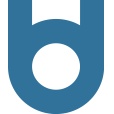
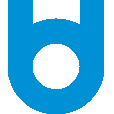
Changed Bicephale color

diff --git a/src/octoprint/static/css/bicephale.css b/src/octoprint/static/css/bicephale.css
@@ -1,5 +1,5 @@
 a:link {
-  color: #397399;
+  color: #0090d4;
 }
 
 .btn {
@@ -129,14 +129,14 @@ input[type="submit"].btn-block, input[type="reset"].btn-block, input[type="butto
 .btn-primary {
     color: #fff;
     text-shadow: 0 -1px 0 rgba(0, 0, 0, 0.25);
-    background-color: #397399;
-    background-image: -moz-linear-gradient(top, #397399, #397399);
-    background-image: -webkit-gradient(linear, 0 0, 0 100%, from(#397399), to(#397399));
-    background-image: -webkit-linear-gradient(top, #397399, #397399);
-    background-image: -o-linear-gradient(top, #397399, #397399);
-    background-image: linear-gradient(to bottom, #397399, #397399);
+    background-color: #0090d4;
+    background-image: -moz-linear-gradient(top, #0090d4, #0090d4);
+    background-image: -webkit-gradient(linear, 0 0, 0 100%, from(#0090d4), to(#0090d4));
+    background-image: -webkit-linear-gradient(top, #0090d4, #0090d4);
+    background-image: -o-linear-gradient(top, #0090d4, #0090d4);
+    background-image: linear-gradient(to bottom, #0090d4, #0090d4);
     background-repeat: repeat-x;
-    filter: progid:DXImageTransform.Microsoft.gradient(startColorstr='#ff397399', endColorstr='#ff397399', GradientType=0);
+    filter: progid:DXImageTransform.Microsoft.gradient(startColorstr='#ff0090d4', endColorstr='#ff0090d4', GradientType=0);
     border-color: #04c #04c #002a80;
     border-color: rgba(0, 0, 0, 0.1) rgba(0, 0, 0, 0.1) rgba(0, 0, 0, 0.25);
     *background-color: #04c;
@@ -144,8 +144,8 @@ input[type="submit"].btn-block, input[type="reset"].btn-block, input[type="butto
 }
 .btn-primary:hover, .btn-primary:focus, .btn-primary:active, .btn-primary.active, .btn-primary.disabled, .btn-primary[disabled] {
     color: #fff;
-    background-color: #397399;
-    *background-color: #397399;
+    background-color: #0090d4;
+    *background-color: #0090d4;
 }
 .btn-primary:active, .btn-primary.active {
     background-color: #039 \9;
@@ -357,14 +357,14 @@ button.btn.btn-mini, input[type="submit"].btn.btn-mini {
 }
 
 #navbar .navbar-inner {
-    background-color: #397399;
-    background-image: -moz-linear-gradient(top, #397399, #397399);
-    background-image: -webkit-gradient(linear, 0 0, 0 100%, from(#397399), to(#397399));
-    background-image: -webkit-linear-gradient(top, #397399, #397399);
-    background-image: -o-linear-gradient(top, #397399, #397399);
-    background-image: linear-gradient(to bottom, #397399, #397399);
+    background-color: #0090d4;
+    background-image: -moz-linear-gradient(top, #0090d4, #0090d4);
+    background-image: -webkit-gradient(linear, 0 0, 0 100%, from(#0090d4), to(#0090d4));
+    background-image: -webkit-linear-gradient(top, #0090d4, #0090d4);
+    background-image: -o-linear-gradient(top, #0090d4, #0090d4);
+    background-image: linear-gradient(to bottom, #0090d4, #0090d4);
     background-repeat: repeat-x;
-    filter: progid:DXImageTransform.Microsoft.gradient(startColorstr='#397399', endColorstr='#397399', GradientType=0);
+    filter: progid:DXImageTransform.Microsoft.gradient(startColorstr='#0090d4', endColorstr='#0090d4', GradientType=0);
 }
 #navbar .navbar-inner .brand, #navbar .navbar-inner .nav>li>a {
     text-shadow: 0 0px 0 #fff;
@@ -386,14 +386,14 @@ button.btn.btn-mini, input[type="submit"].btn.btn-mini {
     background-image: url(../img/bicephale/tentacle-20x20@2x.png);
 }
 }#navbar .navbar-inner .nav li.dropdown.open>.dropdown-toggle, #navbar .navbar-inner .nav li.dropdown.active>.dropdown-toggle, #navbar .navbar-inner .nav li.dropdown.open.active>.dropdown-toggle {
-    background-color: #397399;
-    background-image: -moz-linear-gradient(top, #397399, #397399);
-    background-image: -webkit-gradient(linear, 0 0, 0 100%, from(#397399), to(#397399));
-    background-image: -webkit-linear-gradient(top, #397399, #397399);
-    background-image: -o-linear-gradient(top, #397399, #397399);
-    background-image: linear-gradient(to bottom, #397399, #397399);
+    background-color: #0090d4;
+    background-image: -moz-linear-gradient(top, #0090d4, #0090d4);
+    background-image: -webkit-gradient(linear, 0 0, 0 100%, from(#0090d4), to(#0090d4));
+    background-image: -webkit-linear-gradient(top, #0090d4, #0090d4);
+    background-image: -o-linear-gradient(top, #0090d4, #0090d4);
+    background-image: linear-gradient(to bottom, #0090d4, #0090d4);
     background-repeat: repeat-x;
-    filter: progid:DXImageTransform.Microsoft.gradient(startColorstr='#397399', endColorstr='#397399', GradientType=0);
+    filter: progid:DXImageTransform.Microsoft.gradient(startColorstr='#0090d4', endColorstr='#0090d4', GradientType=0);
 }
 
 #navbar .navbar-inner .brand span {
